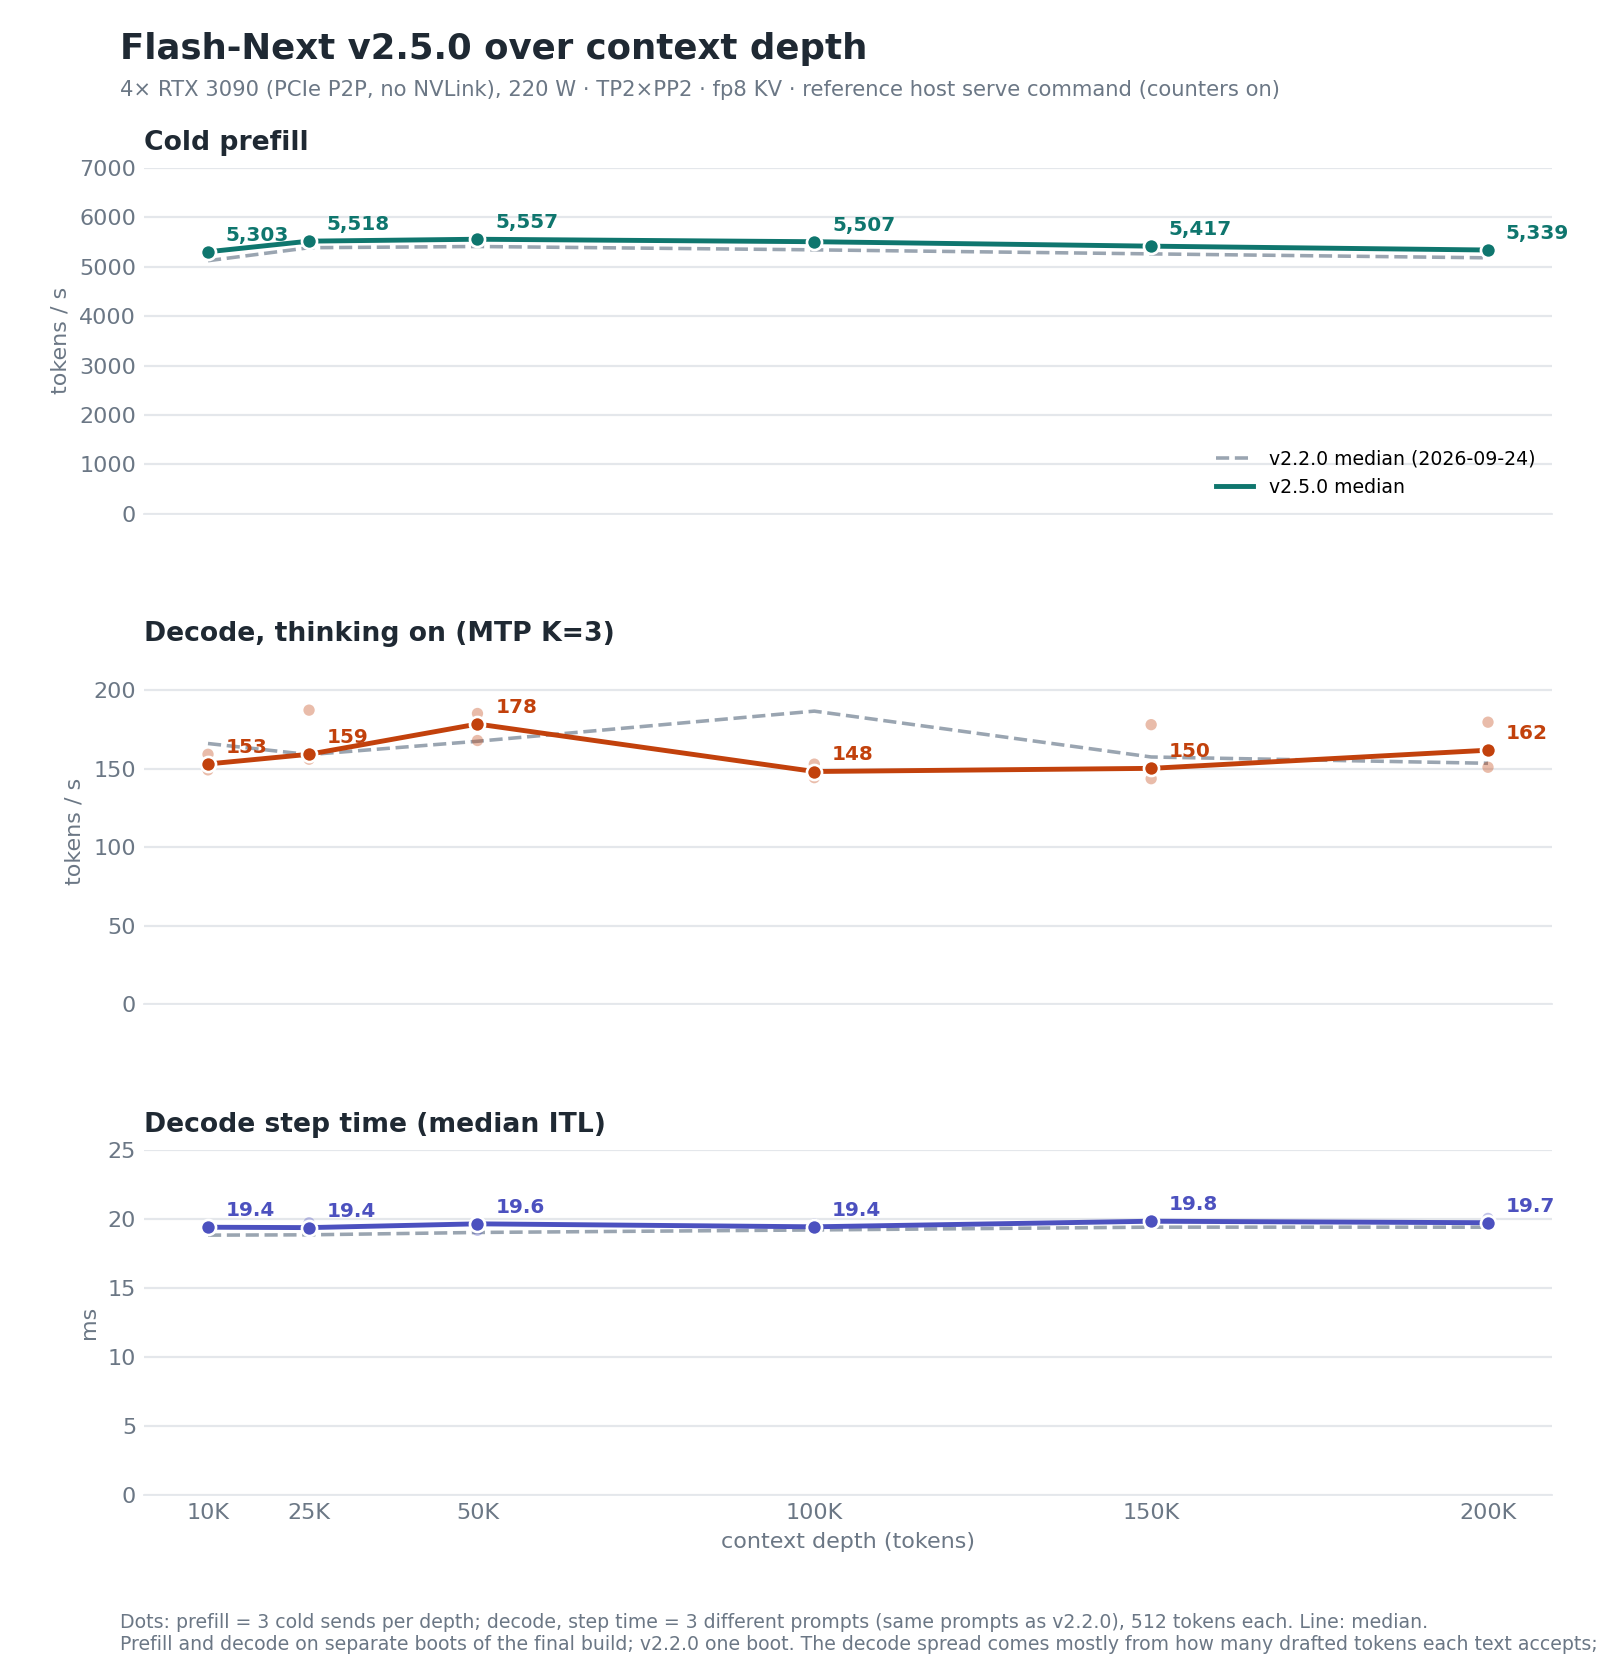
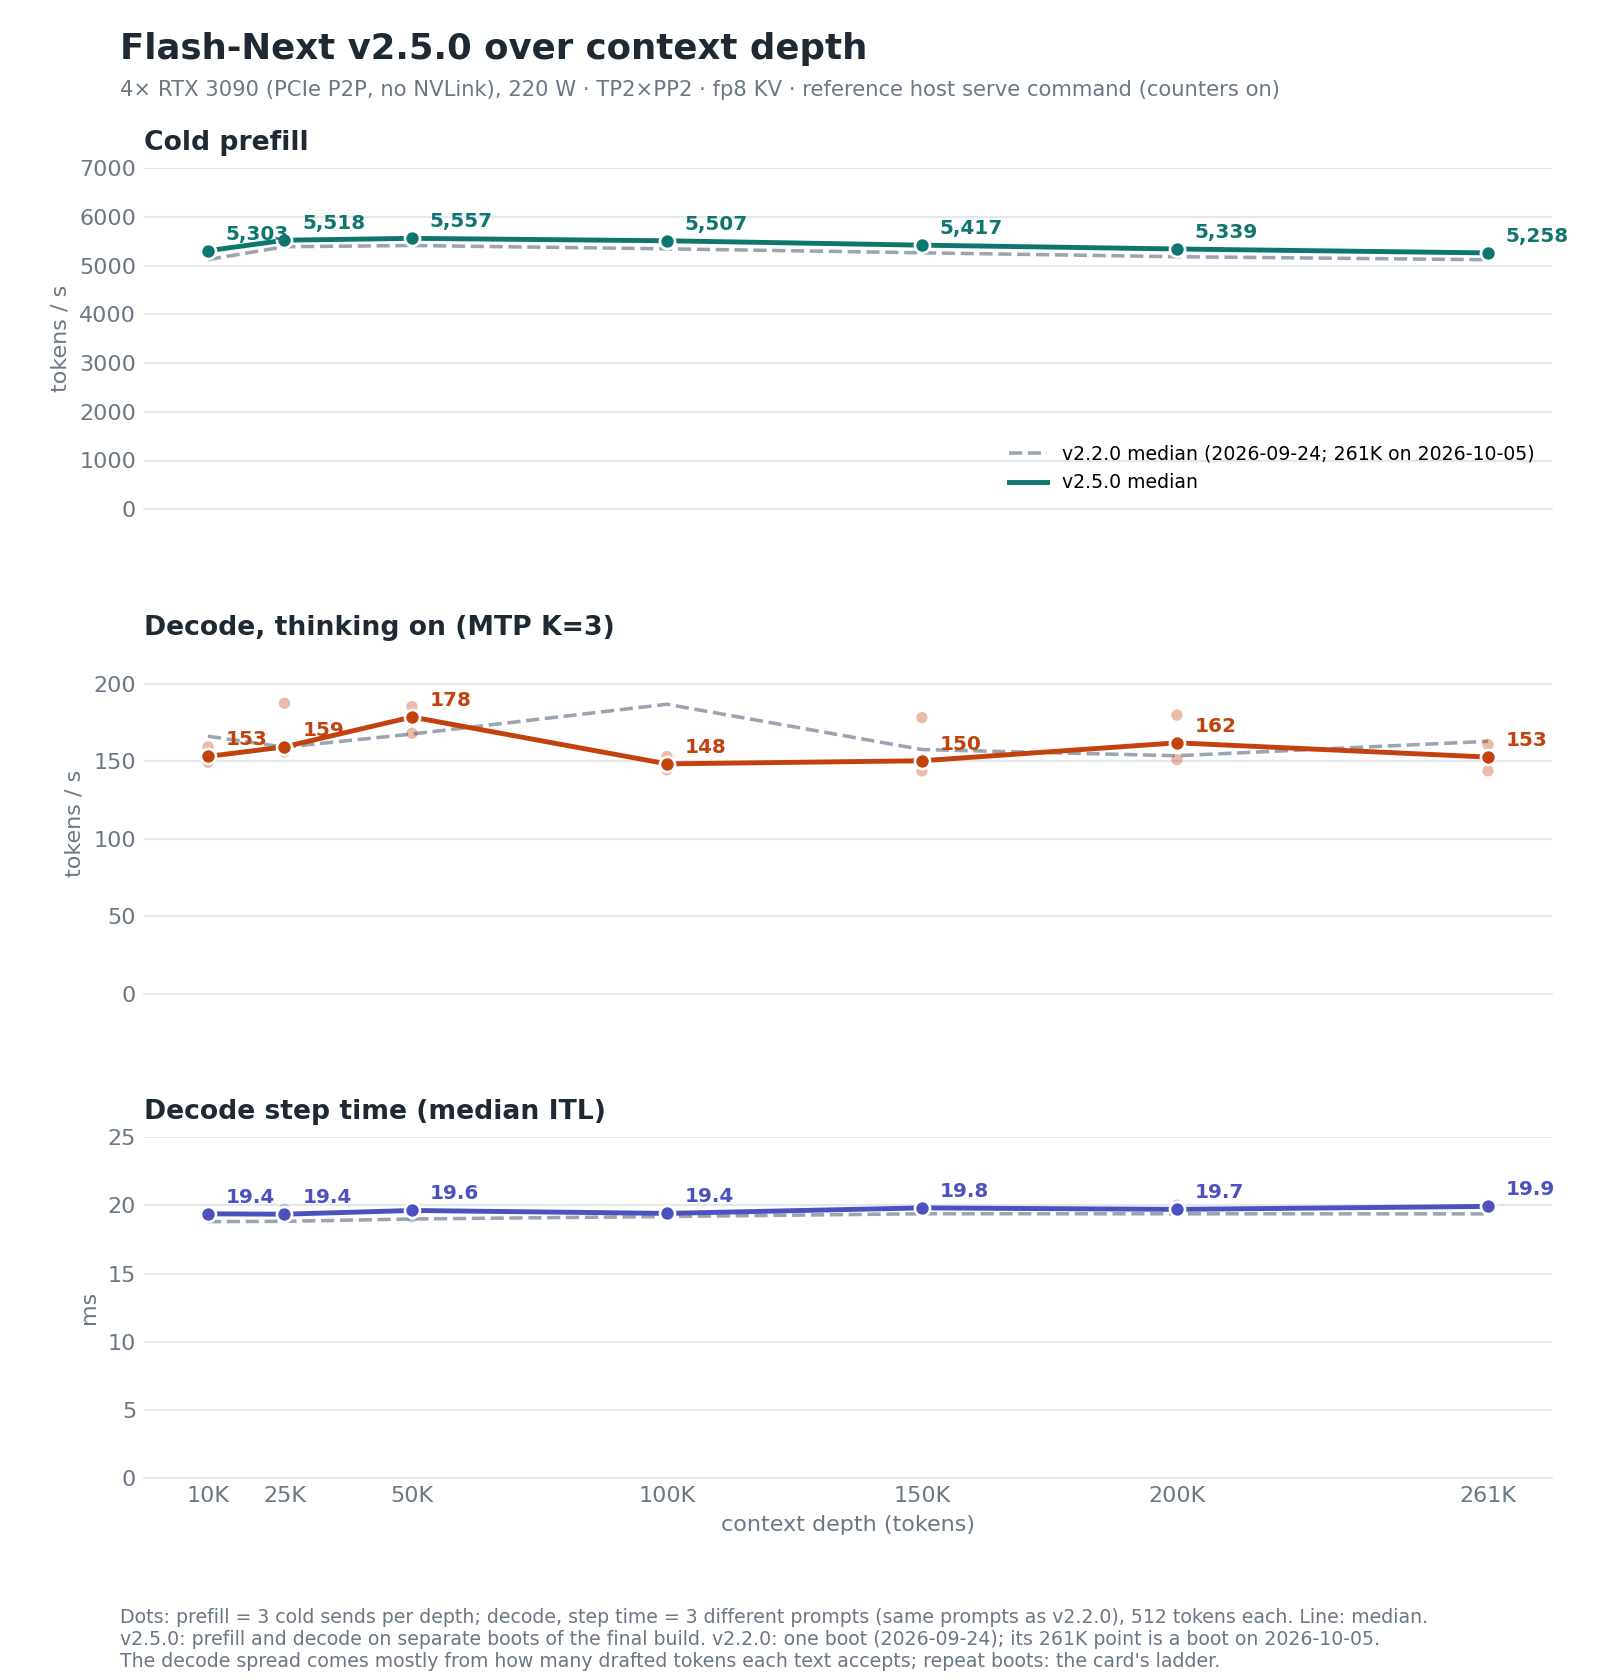
benchmarks: v2.5.0 bench card: 261K depth (prefill and decode, v2.2.0 comparator the same day)

diff --git a/benchmarks/2026-10-05/BENCH-CARD.md b/benchmarks/2026-10-05/BENCH-CARD.md
@@ -82,7 +82,8 @@ totals overstate capacity: each session also holds fixed Gated-DeltaNet state bl
 
 ![ctx_pp vs ctx_tg over context depth, with step time, v2.2.0 medians as the dashed line](flashnext-v2.5.0-ctx-pp-tg-itl.png)
 
-The final build, the reference host's serve environment above (counters on); prefill on one boot, decode on a second.
+The final build, the reference host's serve environment above (counters on); prefill on one boot, decode on a second,
+the 261K cells on a third (2026-10-05, with v2.2.0's 261K comparator measured the same day).
 Same driver, cells and prompts as the v2.2.0 chart, whose medians are the dashed line.
 
 - **ctx_pp** is cold prefill: 3 sends per depth, each with a unique nonce at the start of the first user turn, and
@@ -101,12 +102,14 @@ Same driver, cells and prompts as the v2.2.0 chart, whose medians are the dashed
 | 100K | 5,507 [5,496–5,512] | +3.1 % | 148.2 [144.3–152.9] | 152.9 / 144.3 / 148.2 | 19.41 [19.27–19.60] | 2.93 / 2.81 / 2.86 |
 | 150K | 5,417 [5,412–5,424] | +3.0 % | 150.3 [143.7–178.1] | 150.3 / 143.7 / 178.1 | 19.82 [19.82–19.99] | 2.96 / 2.83 / 3.53 |
 | 200K | 5,339 [5,338–5,342] | +3.1 % | 161.8 [151.0–179.7] | 151.0 / 161.8 / 179.7 | 19.71 [19.61–20.02] | 2.96 / 3.15 / 3.57 |
+| 261K | 5,258 [5,250–5,272] | +2.7 % | 152.6 [143.8–160.7] | 152.6 / 160.7 / 143.8 | 19.93 [19.83–19.94] | 3.02 / 3.16 / 2.84 |
 
-**Cold prefill is 2.5–3.5 % above the v2.2.0 card** at every depth (not same-day; the gate's own prefill harness
-against v2.2.0 boots of 2026-10-04 gives +2.4 to +3.0 % at 10K and 100K). **Read the decode column through the step-time column.**
-Step time is 19.4–19.8 ms from 10K to 200K, 0.2–0.6 ms above v2.2.0 at each depth; the ctx_tg spread tracks how
-many drafted tokens each text accepts (2.81–3.66 per event). One boot per release, so a single depth's decode difference
-against v2.2.0 is a content draw; section 1's repeat boots are the measure of the decode cost.
+**Cold prefill is 2.5–3.5 % above v2.2.0** at every depth (10K–200K against the v2.2.0 card, 261K same-day; the
+gate's own prefill harness against v2.2.0 boots of 2026-10-04 gives +2.4 to +3.0 % at 10K and 100K). **Read the decode
+column through the step-time column.** Step time is 19.4–19.9 ms from 10K to 261K, 0.2–0.6 ms above v2.2.0 at each
+depth; the ctx_tg spread tracks how many drafted tokens each text accepts (2.81–3.66 per event). One boot per series,
+so a single depth's decode difference against v2.2.0 is a content draw; section 1's repeat boots are the measure of
+the decode cost.
 
 ## 5. How the release candidate's prefill cost was recovered
 
